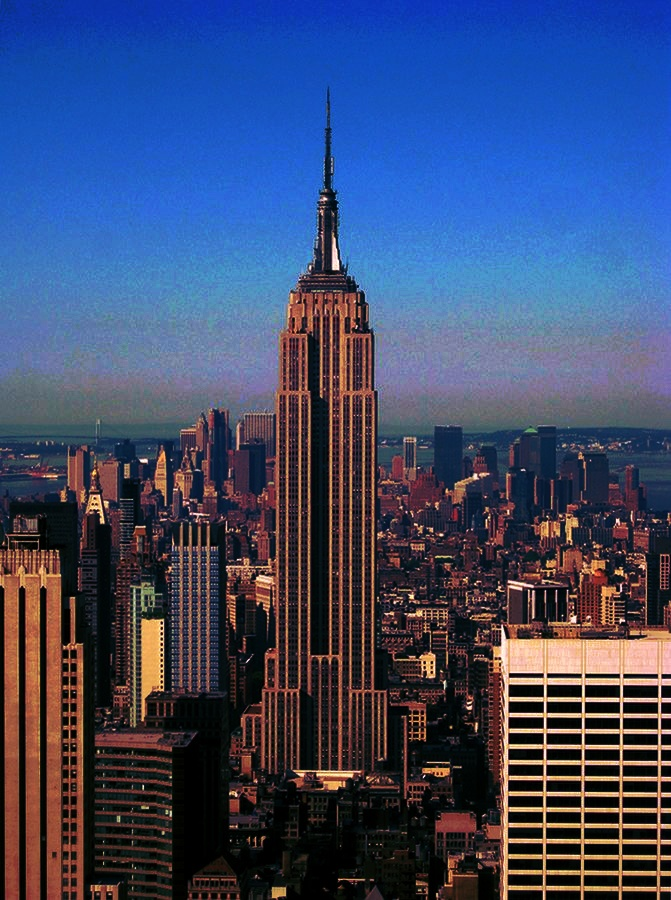
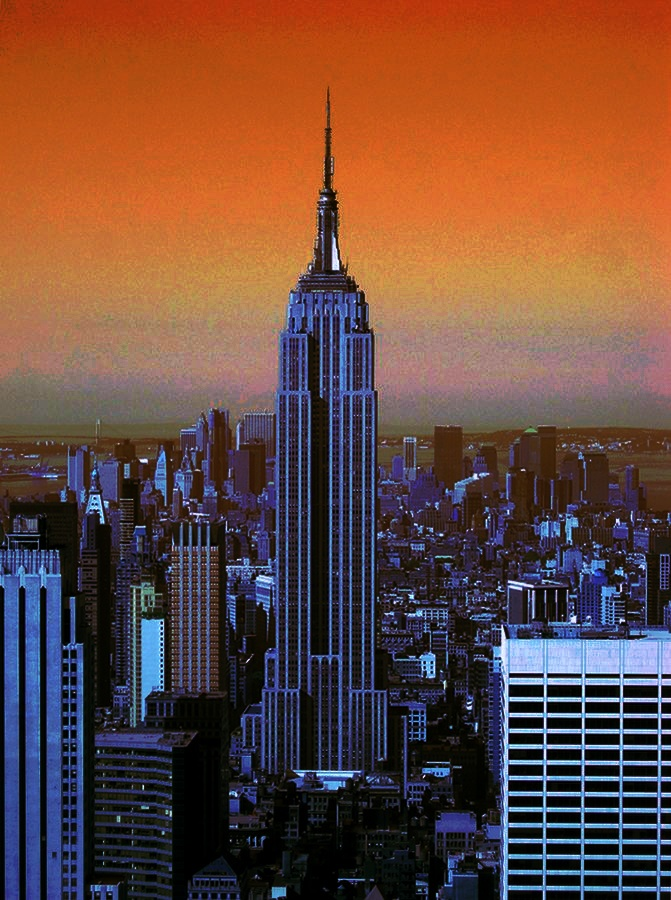
fix channel color

diff --git a/tasks/task-07-histogram-matching/task-07-histogram-matching.py b/tasks/task-07-histogram-matching/task-07-histogram-matching.py
@@ -87,7 +87,7 @@ generated_img = match_histograms_rgb(source_img, reference_img)
 
 # Salvar a imagem gerada
 generated_output_path = "generated_output.jpg"
-cv.imwrite(generated_output_path, cv.cvtColor(generated_img, cv.COLOR_RGB2BGR))  # Converter de RGB para BGR antes de salvar
+cv.imwrite(generated_output_path, generated_img)  # Converter de RGB para BGR antes de salvar
 print(f"Generated image saved as {generated_output_path}")
 
 # Gerar a imagem transformada usando scikit-image
